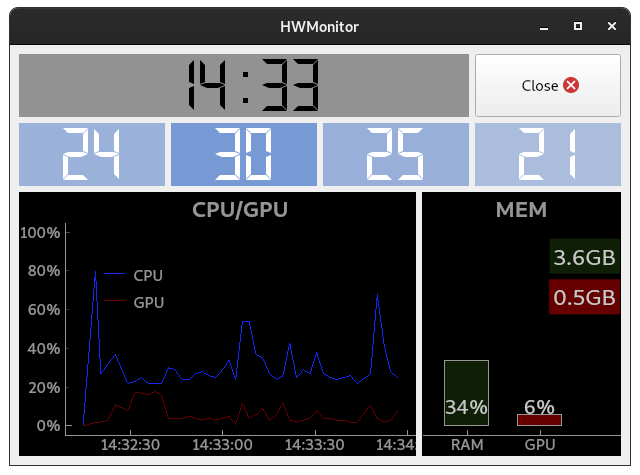
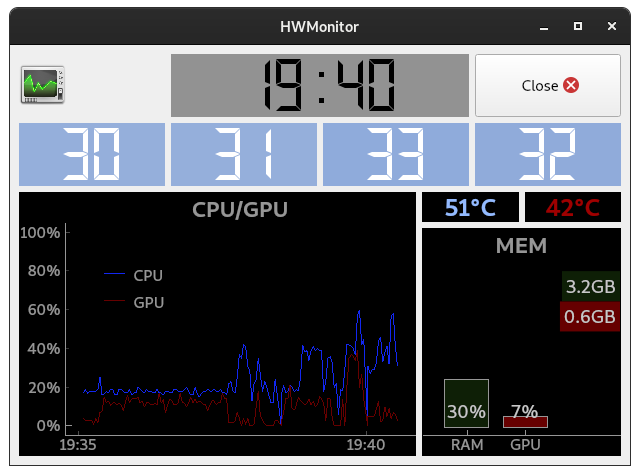
Update README

diff --git a/hwmonitorGUI.py b/hwmonitorGUI.py
@@ -65,7 +65,7 @@ class MainWindow(QMainWindow):
 
         # Close button, top right
         icon_label = QLabel(self)
-        pixmap = QPixmap("resources/iconfinder_chip_square_6137627.png")
+        pixmap = QPixmap("resources/iconfinder_gnome-system-monitor_23964.png")
         pixmap = pixmap.scaledToHeight(48)
         icon_label.setPixmap(pixmap)
         cpu_core_grid.addWidget(icon_label, 0, 0)
@@ -134,7 +134,7 @@ class MainWindow(QMainWindow):
         self.cpu_temperature.setAlignment(Qt.AlignCenter)
         self.gpu_temperature.setAlignment(Qt.AlignCenter)
         self.cpu_temperature.setStyleSheet("background-color: black; color: #93BAFF")
-        self.gpu_temperature.setStyleSheet("background-color: black; color: #FF9393")
+        self.gpu_temperature.setStyleSheet("background-color: black; color: #9F0000")
   
         temperature_grid.addWidget(self.cpu_temperature)
         temperature_grid.addWidget(self.gpu_temperature)

diff --git a/README.md b/README.md
@@ -1,16 +1,17 @@
 # rpi-hwmonitor-display
-A system statistics monitor displaying host system's CPU, RAM and GPU statistics on a Raspberry Pi client. Host can be a Linux or a Windows system. Message delivery between host and client is based on Google Pub/Sub.
+A system hardware status monitor displaying host system's CPU, RAM and GPU statistics on a Raspberry Pi client. Host can be a Linux or a Windows system. Message delivery between host and client is based on Google Pub/Sub.
 
 System statistics monitored include:
- * CPU core utilizations, frequences and temperatures(*),
- * used and available RAM,
- * Nvidia GPU core utilization and temperature and memory utilization (Non Nvidia cards are not supported)
+ * CPU core utilization
+ * CPU and GPU overall utilization and temperatures
+ * GPU and total system RAM usage
+ 
 
 
 
 ![Main window](hwmonitor.png)
 
-A hardware statistics poller running on the host system to monitor send the statistics to a Pub/Sub topic where the client pulls them and displays on a PyQt5 based GUI.
+A hardware statistics poller running on the host system to monitor writes current system statistics to a Pub/Sub topic where the client pulls them and displays on a PyQt5 based GUI.
 
 ## Google Cloud Setup
 To setup you need:
@@ -19,7 +20,7 @@ To setup you need:
 
 Then,
  * fill `.template_env` with your project id, path to a downloaded service account json key file and names for your Pub/Sub topic and subscription. Rename the file to `.env`.
- * Create the topic and subscription from the file
+ * Source the file and setup your Pub/Sub topic with
     ```
     source .env
     ./setup_pubsub.sh
@@ -32,13 +33,13 @@ pip install -r requirements.txt
 ```
 
 ## Run
-To run the statistics poller:
+Run the statistics poller on the host system with:
 ```
 python poller.py
 ```
-Then, run the monitor in a different terminal with
+Then, run the monitor on the client (or in a different terminal) with
 ```
-python main.py [--fullscreen]
+python main.py
 ```
 
 ## Windows setup
